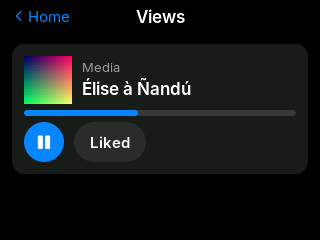
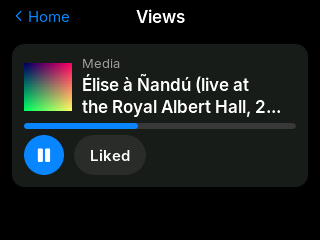
P51-M step 3: label overflow (wrap, clip, ellipsis, scroll) and max_lines

Changed region(s): [[0.0312, 0.2333, 0.9688, 0.7875]]

diff --git a/crates/fenix-pkg/src/lib.rs b/crates/fenix-pkg/src/lib.rs
@@ -91,6 +91,11 @@ pub mod key {
     pub const ALIGN: u8 = 23;
     /// Bindable visibility: index of a bool binding (P50-M).
     pub const SHOW: u8 = 24;
+    /// A label's long text (P51-M, 0.1.26): 0 wrap, 1 clip, 2 ellipsis, 3 scroll. Older boards
+    /// ignore it (the text wraps).
+    pub const TEXT_OVERFLOW: u8 = 25;
+    /// Lines a clipped or ellipsized label shows, 1 to `MAX_LINES` (P51-M, 0.1.26).
+    pub const MAX_LINES: u8 = 26;
     pub const PORTRAIT: u8 = 0x80;
 }
 
@@ -98,6 +103,10 @@ pub mod asset_format {
     pub const A8: u8 = 1;
     pub const RGB565: u8 = 2;
 }
+
+/// `overflow` values, in key::TEXT_OVERFLOW order.
+pub const OVERFLOWS: [&str; 4] = ["wrap", "clip", "ellipsis", "scroll"];
+pub const MAX_LINES: i32 = 8;
 
 pub const SIZE_CONTENT: i32 = -1;
 pub const SIZE_PCT: i32 = 0x4000_0000;
@@ -834,11 +843,53 @@ impl<'a> Compiler<'a> {
                     key::HIDDEN,
                     v.as_bool().ok_or("hidden must be true or false")? as i32,
                 ),
+                "overflow" | "max_lines" if kind != kind::LABEL => {
+                    return Err(format!("{k} is for labels only"))
+                }
+                "overflow" => (
+                    key::TEXT_OVERFLOW,
+                    Self::pick(&OVERFLOWS, &str_of(v, k)?, "overflow")?,
+                ),
+                "max_lines" => {
+                    let n = int_of(v, k)?;
+                    if !(1..=MAX_LINES).contains(&n) {
+                        return Err(format!("max_lines must be 1 to {MAX_LINES}"));
+                    }
+                    (key::MAX_LINES, n)
+                }
                 other => return Err(format!("unknown prop {other}")),
             };
             out.push((kv.0 | flag, kv.1));
         }
         Ok(out)
+    }
+
+    /// In each orientation: `max_lines` only with `clip` or `ellipsis`, and a label that does not
+    /// wrap needs a width (`w` other than "content", or `grow`) to overflow.
+    fn check_overflow(props: &[(u8, i32)]) -> Result<(), String> {
+        for port in [false, true] {
+            let get = |k: u8| {
+                let land = props.iter().find(|p| p.0 == k).map(|p| p.1);
+                let port_v = props.iter().find(|p| p.0 == k | key::PORTRAIT).map(|p| p.1);
+                if port {
+                    port_v.or(land)
+                } else {
+                    land
+                }
+            };
+            let ov = get(key::TEXT_OVERFLOW).unwrap_or(0);
+            if get(key::MAX_LINES).is_some() && ov != 1 && ov != 2 {
+                return Err("max_lines needs overflow clip or ellipsis".into());
+            }
+            let sized = get(key::W).is_some_and(|w| w != SIZE_CONTENT) || get(key::GROW).is_some();
+            if ov != 0 && !sized {
+                return Err(format!(
+                    "overflow {} needs a width (w or grow)",
+                    OVERFLOWS[ov as usize]
+                ));
+            }
+        }
+        Ok(())
     }
 
     fn element(&mut self, v: &Value, parent: u16, depth: usize) -> Result<(), String> {
@@ -866,6 +917,9 @@ impl<'a> Compiler<'a> {
         if let Some(p) = o.get("portrait") {
             let po = p.as_object().ok_or("portrait must be an object")?;
             props.extend(self.props(k, po, true)?);
+        }
+        if k == kind::LABEL {
+            Self::check_overflow(&props)?;
         }
         let ix = self.elems.len();
         self.elems.push(Elem {
@@ -1061,6 +1115,37 @@ mod tests {
         assert_eq!(p.elems.len(), 12);
         assert_eq!(p.built_at_once(), 7);
         assert_eq!(parse(&sample()).unwrap().built_at_once(), 15);
+    }
+
+    #[test]
+    fn label_overflow() {
+        let lab = |props: &str| {
+            let layout = format!(
+                r#"{{"type": "box", "children": [{{"type": "label", "text": "x"{props}}}]}}"#
+            );
+            build_layout("overflow", &layout, "0.1.0").map(|p| p.elems[1].props.clone())
+        };
+        let p = lab(r#", "w": 120, "overflow": "ellipsis", "max_lines": 2"#).unwrap();
+        assert!(p.contains(&(key::TEXT_OVERFLOW, 2)) && p.contains(&(key::MAX_LINES, 2)));
+        let p = lab(
+            r#", "grow": 1, "overflow": "scroll", "portrait": {"overflow": "clip", "max_lines": 3}"#,
+        );
+        assert!(p
+            .unwrap()
+            .contains(&(key::TEXT_OVERFLOW | key::PORTRAIT, 1)));
+        for bad in [
+            r#", "w": 120, "max_lines": 2"#,                       // wrap
+            r#", "w": 120, "overflow": "scroll", "max_lines": 1"#, // scroll is one line
+            r#", "overflow": "ellipsis""#,                         // no width
+            r#", "w": "content", "overflow": "clip""#,
+            r#", "w": 120, "overflow": "clip", "max_lines": 9"#,
+            r#", "w": 120, "overflow": "fade""#,
+            r#", "w": 120, "overflow": "clip", "portrait": {"overflow": "wrap"}, "max_lines": 2"#,
+        ] {
+            assert!(lab(bad).is_err(), "{bad}");
+        }
+        let button = r#"{"type": "button", "text": "x", "w": 80, "overflow": "clip"}"#;
+        assert!(build_layout("overflow_btn", button, "0.1.0").is_err());
     }
 
     #[test]

diff --git a/board/components/fenix_apps/app_pkg.cpp b/board/components/fenix_apps/app_pkg.cpp
@@ -567,6 +567,19 @@ static lv_obj_t* make(const fpkg::Elem& e, uint16_t idx, lv_obj_t* parent, bool 
       int32_t al = get(fpkg::key::ALIGN, 0);
       lv_obj_set_style_text_align(o, al == 1 ? LV_TEXT_ALIGN_CENTER : al == 2 ? LV_TEXT_ALIGN_RIGHT : LV_TEXT_ALIGN_LEFT,
                                   0);
+      // Long text (P51-M): wrap (default), clip or ellipsis after max_lines (default 1; the height
+      // stays the text's up to that), or one line scrolling round (marquee). Needs a set width.
+      static const lv_label_long_mode_t MODES[] = {LV_LABEL_LONG_MODE_WRAP, LV_LABEL_LONG_MODE_CLIP,
+                                                   LV_LABEL_LONG_MODE_DOTS, LV_LABEL_LONG_MODE_SCROLL_CIRCULAR};
+      int32_t ov = get(fpkg::key::TEXT_OVERFLOW, 0);
+      if (ov > 0 && ov < 4) {
+        lv_label_set_long_mode(o, MODES[ov]);
+        if (ov != 3) {
+          int32_t n = LV_CLAMP(1, get(fpkg::key::MAX_LINES, 1), 8);
+          int32_t lh = lv_font_get_line_height(FONTS[get(fpkg::key::FONT, 0)]);
+          lv_obj_set_style_max_height(o, n * lh + (n - 1) * lv_obj_get_style_text_line_space(o, LV_PART_MAIN), 0);
+        }
+      }
       break;
     }
     case fpkg::kind::BUTTON: {
@@ -661,9 +674,6 @@ static lv_obj_t* make(const fpkg::Elem& e, uint16_t idx, lv_obj_t* parent, bool 
   return o;
 }
 
-// Whether element `i` shows (P50-M): its `show` binding once set, else not `hidden`; and inside
-// a view, only the child the view's binding (or `value`, else 0) picks. Hidden elements stay
-// built, so values bound inside them are applied and kept.
 // The child a view shows: its binding once set, else `value`, else 0.
 static int32_t view_pick(size_t view, bool port) {
   const fpkg::Elem& p = s_app.pkg.elems[view];

diff --git a/board/components/fenix_pkg/include/fenix_pkg.h b/board/components/fenix_pkg/include/fenix_pkg.h
@@ -39,7 +39,9 @@ namespace key {
 constexpr uint8_t TEXT = 1, FONT = 2, COLOR = 3, BG = 4, BIND = 5, W = 6, H = 7, GROW = 8, GAP = 9, PAD = 10,
                   FLOW = 11, MAIN = 12, CROSS = 13, RADIUS = 14, MIN = 15, MAX = 16, VALUE = 17, ICON = 18,
                   SIZE = 19, SRC = 20, EVENT = 21, HIDDEN = 22, ALIGN = 23,
-                  SHOW = 24,  // a bool binding shows or hides the element (P50-M)
+                  SHOW = 24,       // a bool binding shows or hides the element (P50-M)
+                  TEXT_OVERFLOW = 25,  // label: 0 wrap, 1 clip, 2 ellipsis, 3 scroll (P51-M)
+                  MAX_LINES = 26,      // label with clip or ellipsis: lines shown, 1 to 8 (P51-M)
                   PORTRAIT = 0x80;
 }
 namespace asset_format {

diff --git a/board/components/fenix_pkg/test/test_pkg.cpp b/board/components/fenix_pkg/test/test_pkg.cpp
@@ -41,6 +41,10 @@ static void views(const char* path) {
          "show with hidden");
   // The bound image (P50-M): element 4, binding 1 ("art"), 48 x 48.
   expect(p.elems[4].kind == fpkg::kind::IMAGE && p.elems[4].prop(fpkg::key::BIND, &v) && v == 1, "bound image");
+  // The title (P51-M): ellipsis after 2 lines; 200 wide, 130 in portrait.
+  expect(p.elems[7].prop(fpkg::key::TEXT_OVERFLOW, &v) && v == 2 && p.elems[7].prop(fpkg::key::MAX_LINES, &v) &&
+             v == 2 && p.elems[7].prop(fpkg::key::W, &v, true) && v == 130,
+         "label overflow");
   // Point the first `show` at a binding that does not exist: refused.
   bool found = false;
   for (size_t i = 0; i + 5 <= b.size() && !found; i++) {

diff --git a/docs/packages.md b/docs/packages.md
@@ -31,7 +31,7 @@ A folder with:
 | `type` | What it is | Own props |
 |---|---|---|
 | `box` | Flex container | `flow` (`column` default, `row`, `row_wrap`), `gap`, `pad`, `main`, `cross` (`start` `center` `end` `space_between`), `bg`, `radius` |
-| `label` | Text. With `bind`, a value label | `text`, `font`, `color`, `align` (`left` `center` `right`) |
+| `label` | Text. With `bind`, a value label | `text`, `font`, `color`, `align` (`left` `center` `right`), `overflow` and `max_lines` (v0.1.26, below) |
 | `button` | Capsule button; with `icon` and no text, an icon button | `text`, `icon`, `bg`, `color`, `event` |
 | `switch` | On/off switch | `bind`, `event`, `value` |
 | `slider` | Horizontal slider | `min`, `max`, `value`, `bind`, `event` |
@@ -50,6 +50,7 @@ Props every element takes: `w`, `h` (pixels, `"50%"`, or `"content"`; boxes defa
 
 - `bind: "cpu"` connects the element to binding `cpu`. The PC half sets it (`BIND_SET`, `proto/spec.md`): a label shows text, an integer, or "On" / "Off" for a bool; a switch takes a bool, a slider or bar an integer. Corrected: the bool case on a label was missing. Since v0.1.25 (P50-M) a `button` takes text (its text) or an integer (its glyph, an index in the icon list; out of range: none), and an `icon` takes an integer (its glyph); `fenix-sdk` `set_icon(bind, "pause")` sends the index. Use one kind per button: after a rebuild only the last value is applied.
 - Since v0.1.25 (P50-M) a burst is safe: the PC app keeps the latest value per binding and sends at most 16 every 50 ms (`apps.rs`), and the board keeps values in a 4 KB ring (a 12 B header and the text each, `link.cpp`), so ~50 values on `opened` arrive whole. Measured: 120 values sent at once without the PC's pacing all arrived, the last one shown. If the ring ever fills, the oldest values go. Corrected: before v0.1.25 the board queued 16 values and dropped the newest.
+- **Long text (P51-M, v0.1.26):** a label with a width (`w` other than `"content"`, or `grow`) takes `overflow`: `wrap` (the default: every line, the label grows), `ellipsis` (at most `max_lines` lines, default 1, the last ends in `...`), `clip` (at most `max_lines` lines, the rest cut off at a line break) or `scroll` (one line that scrolls round when it is too long, for a song title). `max_lines` is 1 to 8, only with `clip` or `ellipsis`; the label is as tall as its text up to that. `fenix-pkg build` checks both orientations. Older boards ignore both props (the text wraps), so no `min_fenixos` is needed. Example: the title in `tools/view-app` (simulator shot `app_view`, two lines and `...`).
 - **Switching screens (P50-M, v0.1.25):** put each screen in a `view` and set its binding to the index of the one to show; `show` hides or shows any single element. A view builds only the child it shows: switching deletes the old one and builds the new one, which fades in (200 ms). Values for the screens not shown are kept (the per-binding cache) and applied when they are built. So the RAM estimate counts a view's largest child, not all of them; an element hidden by `show` or `hidden` is built and counts. Corrected (step 5, measured): first built every child, and a 147-element layout ran the board out of memory (`docs/board-info.md` "App RAM with views and album art"). A package with `view` or `show` must set `min_fenixos` to 0.1.25 or newer (`fenix-pkg build` checks): older boards refuse kind 9 and would ignore `show`. Example: `tools/view-app`, simulator shots `app_view` and `app_view_call`.
 - **Pictures from the PC (P50-M, v0.1.25):** one `image` per app may have a `bind`. The PC half calls `set_image(bind, w, h, &rgba)` with any picture (the SDK scales it to at most 120 × 120); fenixOS scales it to fill the element, crops the middle, converts it to RGB565 and sends it in `BIND_IMAGE` chunks, about 3 KB per 50 ms (a 96 × 96 picture took 253 ms over USB). The board writes them into the element's one buffer and redraws it once the picture is whole, so a redraw during the transfer can show the old and new picture mixed for that moment. Send it once per change (a new track), not per frame; a newer picture replaces one still on its way. Not kept on the card: after a restart or offline the element shows `src` again.
 - A bound label without `w` grows with its text and is cut off at the screen edge; with `w` it wraps onto as many lines as needed.
@@ -136,6 +137,8 @@ assets    n_assets × (format:u8 (1 = A8, 2 = RGB565 little-endian, LVGL's nativ
   | 22 | hidden | 0 / 1 |
   | 23 | align | 0 left, 1 center, 2 right |
   | 24 | show | bind id of the value that shows the element (v0.1.25) |
+  | 25 | overflow | label: 0 wrap, 1 clip, 2 ellipsis, 3 scroll (v0.1.26) |
+  | 26 | max_lines | label with clip or ellipsis: 1 to 8 (v0.1.26) |
 
 - **Sizes:** `≥ 0` pixels, `-1` content, `0x40000000 | pct` percent.
 - Assets are stored raw in format 1 (no compression). Compression is a later format version.

diff --git a/tasks.md b/tasks.md
@@ -188,7 +188,8 @@ Releases: v0.1.0 (P10) to v0.1.19 (P42, P44 to P48); tags on GitHub.
     - Done: firmware 0x12e930 to 0x13aea0 (+50.5 KB). Accented capitals raised lv_font_conv's line height (13/12 px 15 to 16, 22 px 26 to 28) and moved 39 of 41 sim screens, so `keep_metrics` takes line_height/base_line from an ASCII-only run; sims unchanged except `app_view` (title now `Élise à Ñandú`). `docs/board-info.md` "Latin-1 in the text fonts", `docs/fonts.md`, `docs/packages.md`, template copies
   - [x] 2. SDK helper: transliterate to the board's glyph set, `?` for unknown
     - Done: `fenix_sdk::text::{fit, builtin, cjk, MARKS}`; transliteration by the `deunicode` 1.6 crate (BSD-3-Clause, `licenses.json` refreshed), combining accents composed into Latin-1, an emoji with its joined parts is one `?`, zero-width marks dropped; cargo test `text_fit`. Docs: `docs/sidecars.md`, template `pc-half.md`
-  - [ ] 3. Label `overflow` (`wrap`, `clip`, `ellipsis`, `scroll`) and `max_lines`
+  - [x] 3. Label `overflow` (`wrap`, `clip`, `ellipsis`, `scroll`) and `max_lines`
+    - Done: props 25 `overflow` and 26 `max_lines` (key `TEXT_OVERFLOW` in code: MSVC's math.h defines `OVERFLOW`). LVGL long modes WRAP, CLIP, DOTS, SCROLL_CIRCULAR; clip and ellipsis cap the height with `max_height` = lines × line height, so a short text keeps its own height. `fenix-pkg build` checks: labels only, a width needed, `max_lines` 1 to 8 and only with clip or ellipsis, both orientations (cargo test `label_overflow`; C++ host test reads the view-app title). Not gated by `min_fenixos`: older boards ignore unknown props and wrap. Firmware +176 B (0x13af50). Sim `app_view`: the view-app title in 2 lines with `...`; scroll checked by hand in the sim. Also removed a stale comment in app_pkg.cpp ("Hidden elements stay built", above `view_pick`)
   - [ ] 4. `secret` setting type (user: yes): masked in App settings, DPAPI user scope in `config.json`, never logged, plain value to the sidecar; registry and template checks
   - [ ] 5. Docs (packages, registry, template copies, Morpheus answer), tests, release v0.1.26
 

diff --git a/templates/app/docs/fenixos/app-format.md b/templates/app/docs/fenixos/app-format.md
@@ -37,7 +37,7 @@ Every element is an object with `type`, optional props and `children` (boxes and
 | `type` | What it is | Own props |
 |---|---|---|
 | `box` | Flex container | `flow` (`column` default, `row`, `row_wrap`), `gap`, `pad`, `main`, `cross` (`start` `center` `end` `space_between`), `bg`, `radius` |
-| `label` | Text; with `bind`, a value label | `text`, `font`, `color`, `align` (`left` `center` `right`) |
+| `label` | Text; with `bind`, a value label | `text`, `font`, `color`, `align` (`left` `center` `right`), `overflow`, `max_lines` |
 | `button` | Capsule button; with `icon` and no text, an icon button | `text`, `icon`, `bg`, `color`, `event` |
 | `switch` | On/off switch | `bind`, `event`, `value` |
 | `slider` | Horizontal slider | `min`, `max`, `value`, `bind`, `event` |
@@ -52,6 +52,7 @@ Props every element takes:
 - `grow`: share of the parent's free space along its flow. Applies only when the parent has a set `h` (column) or `w` (row).
 - `bind`: a binding name. `event`: an event name. `hidden`: true hides it.
 - `show` (fenixOS v0.1.25): a binding name; the element shows while that value is true or non-zero, and follows `hidden` until the PC half sets it.
+- `overflow` (labels, fenixOS v0.1.26; older boards wrap): `wrap` (default), `ellipsis` or `clip` after `max_lines` lines (1 to 8, default 1), or `scroll` (one line scrolling round, for titles). Needs a width: `w` (not `"content"`) or `grow`.
 - `portrait`: an object with any of these props, used instead when the board is in portrait (for example `{ "flow": "column", "w": "100%" }`).
 
 Defaults: buttons 40 px tall (icon buttons 40 × 40), button background `accent`, label colour `label`, bar colour `accent`, switch on colour `success`, slider and bar track `surface_3`.
